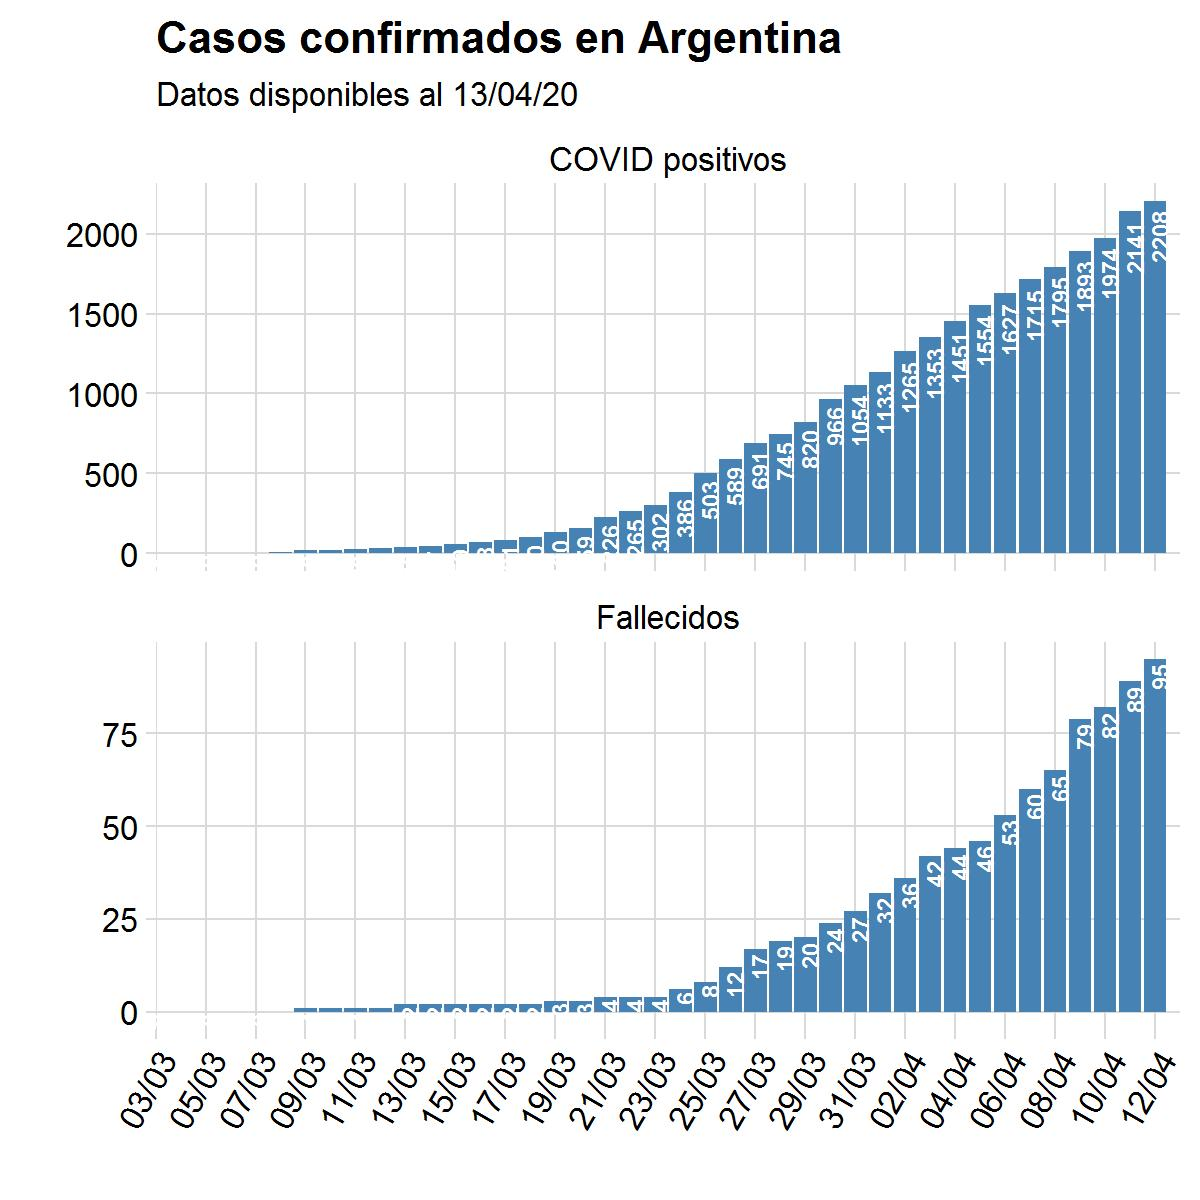
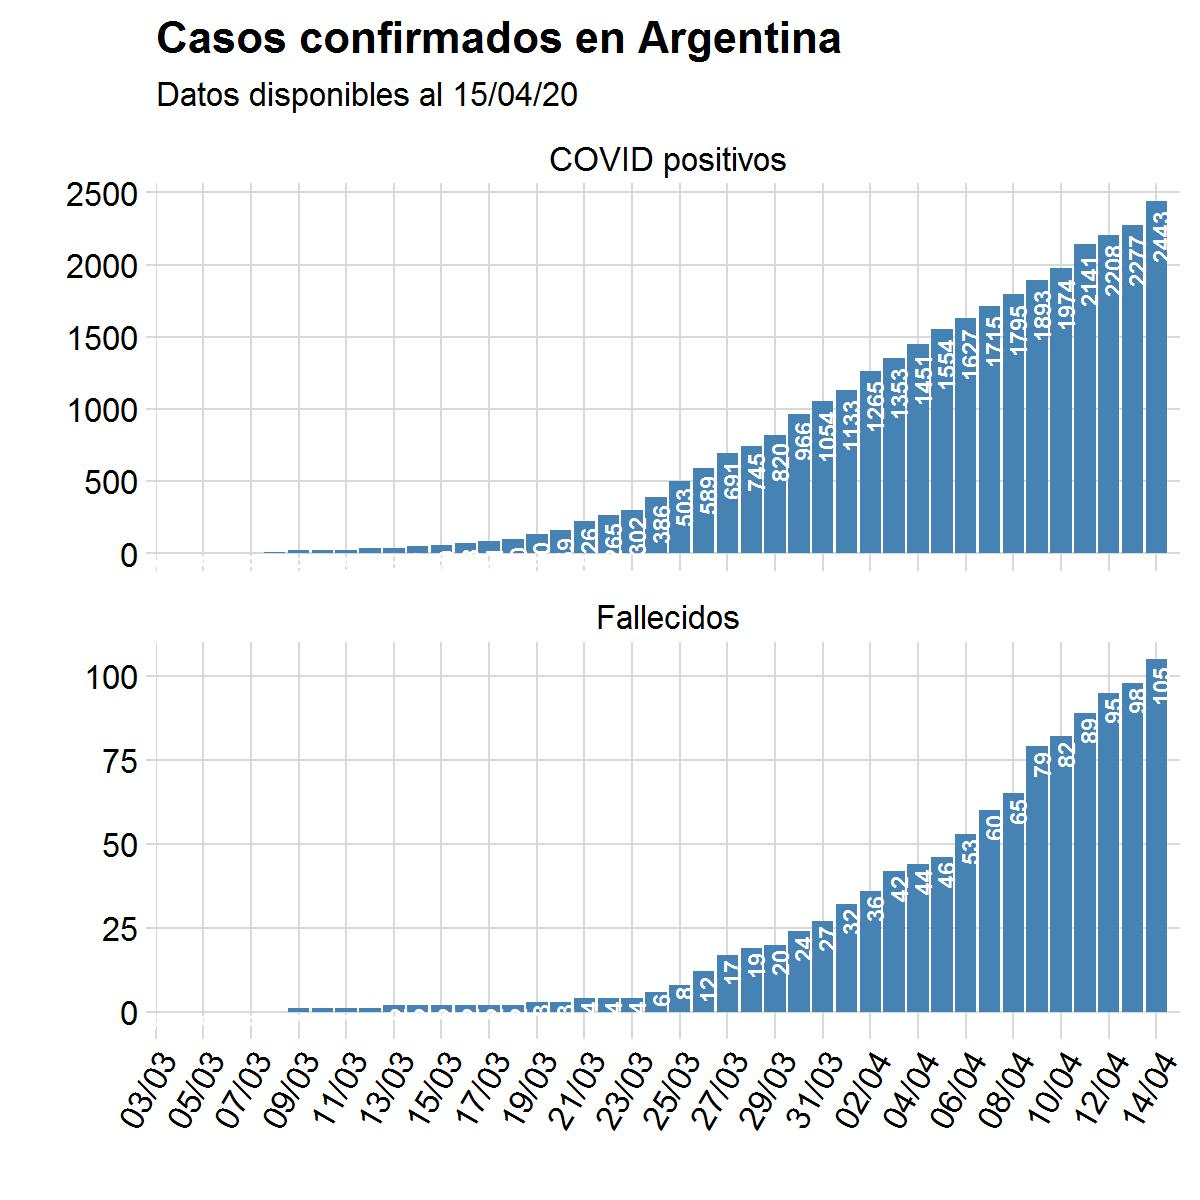
actualicé gráficos

diff --git a/estadisticas.html b/estadisticas.html
@@ -303,7 +303,7 @@ $(document).ready(function () {
 <div id="status-covid19-global" class="section level1">
 <h1>Status COVID19 global</h1>
 <hr />
-<p>13 abr 2020</p>
+<p>15 abr 2020</p>
 <p><br> <img src="plots/global_log.jpg" width="600px" /> <br> <br> <br> <img src="plots/global_GF.jpg" width="600px" /> <br> <br> <br></p>
 </div>
 <div id="status-covid19-mercosur" class="section level1">
@@ -311,7 +311,7 @@ $(document).ready(function () {
 <hr />
 <ul>
 <li>Inicio de epidemia: 2020-03-02</li>
-<li>Duración de epidemia al 13 abr 2020: <em>41 días</em></li>
+<li>Duración de epidemia al 15 abr 2020: <em>43 días</em></li>
 </ul>
 <p><br> <img src="plots/p_latam.jpg" width="600px" /> <br></p>
 <p><img src="plots/latam_GF.jpg" width="600px" /> <br> <br> <br></p>
@@ -319,7 +319,7 @@ $(document).ready(function () {
 <div id="status-covid19-argentina" class="section level1">
 <h1>Status COVID19 Argentina</h1>
 <hr />
-<p>13 abr 2020</p>
+<p>15 abr 2020</p>
 <p><br> <img src="plots/ARG_bars.jpg" width="600px" /> <br> <br> <br></p>
 <div id="qué-modelo-ajusta-mejor-al-progreso-de-infectados-en-argentina" class="section level2">
 <h2>Qué modelo ajusta mejor al progreso de infectados en Argentina?</h2>
